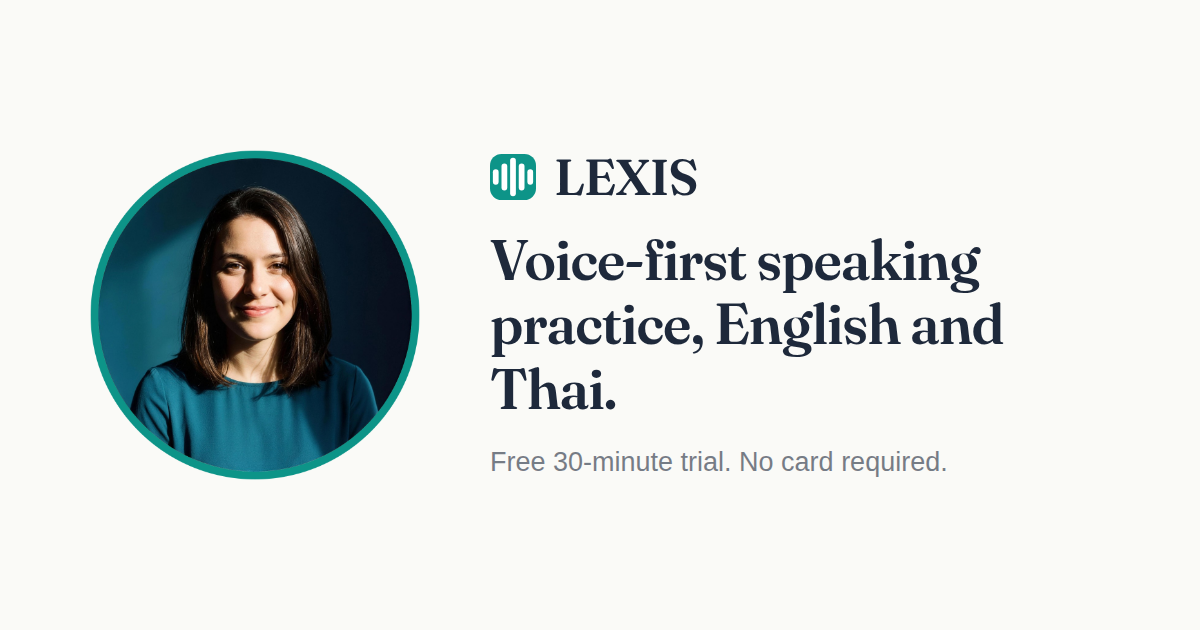
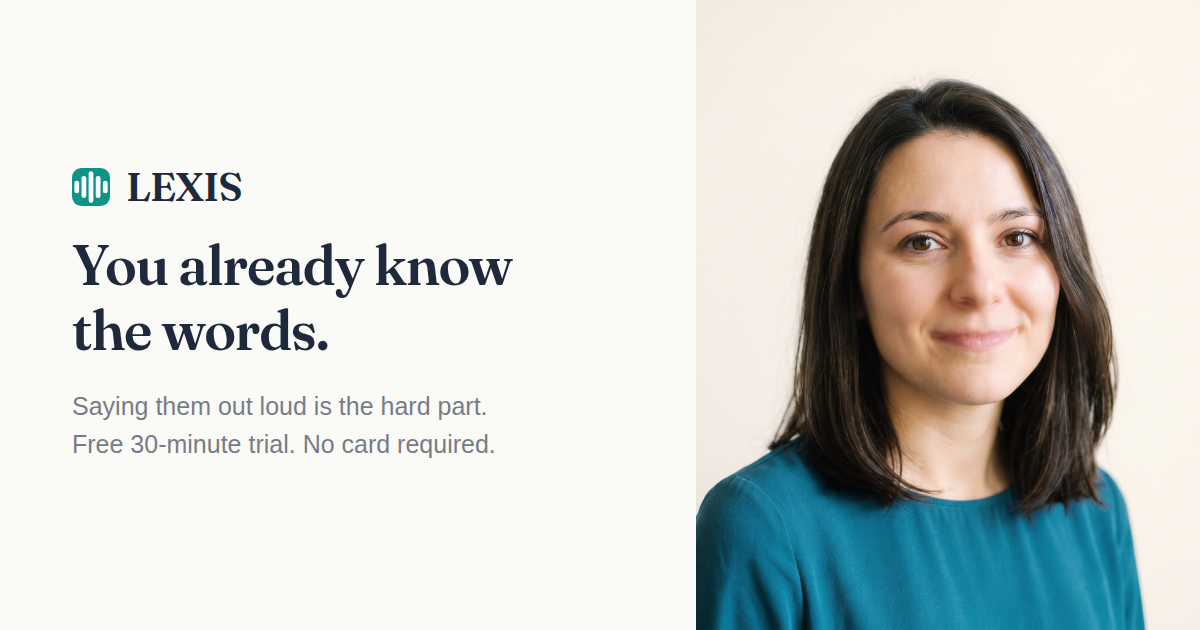
Rebuild the social kit on a real photo library of LEXIS
The composed creative was reported as terrible, and it was: one navy layout
stretched across every aspect ratio, a hole in the middle of each square
post, and the photo used in three pieces out of twelve. The root cause was
that there existed exactly ONE image of her, so every layout had to work
around the same square crop.

photography/ now holds ten frames, generated from that original portrait
with Nano Banana Pro (Gemini) using it as an identity reference: speaking,
smiling, listening, tight face crop, over the shoulder, plus 16:9 and 9:16
frames composed with the headline's negative space already in them.

Identity was verified on every frame, and that verification is the point.
Two other tools were tried first and both silently substituted a different
person: Canva ignored the uploaded asset and used an unrelated stock model,
and Higgsfield's soul_2 copied the styling (teal blouse, navy trousers, blue
backdrop) while generating four different women, one blonde. Most image
tools condition on style rather than identity. The README says to check
every new frame against the original for exactly this reason.

Templates are now three distinct square layouts rather than one:
photo-led (full bleed, scrim, headline low-left), split (photo over solid
black) and type-led (black field, small circular portrait, large quiet
headline). Covers are composed per platform against the 16:9 frame, with
YouTube kept inside its 1546x423 safe centre and LINE OA moved to warm cream
[…]

diff --git a/brand-kit/README.md b/brand-kit/README.md
@@ -24,6 +24,36 @@ Never re-export one of these by hand. The script is the source of truth
 for sizing and treatment, so a hand-made one-off drifts from the rest
 immediately.
 
+## 0a. The photo library
+
+`photography/` holds ten images of LEXIS, generated 27 Aug 2026 from the one
+original portrait using Nano Banana Pro (Gemini) with the original as an
+identity reference. Every frame was checked against the original before it
+was kept.
+
+**That check is not optional, and it is the whole reason this folder exists.**
+Two other tools were tried first and both silently replaced her with a
+different person: Canva dropped in an unrelated stock model, and Higgsfield's
+`soul_2` copied the styling (teal blouse, navy trousers, blue backdrop) while
+generating four different women, one of them blonde. Most image tools condition
+on *style*, not identity. If you generate more of her, put the new frame next
+to `frontend/public/avatar/lexis-tutor-photo.jpg` and actually look, every time.
+
+| File | Shot for |
+|---|---|
+| `01-portrait-black-smile` | Square, warm smile, black. Avatars, general use. |
+| `02-portrait-black-speaking` | Square, mid-sentence. The best single image for a voice product. |
+| `03-portrait-cream-listening` | Square, listening, warm cream. Light-background layouts. |
+| `05-vertical-black-headroom` | 3:4 with empty space above her for a headline. |
+| `07-banner-black-right` | 16:9, her on the right, two thirds empty black. Every wide cover. |
+| `09-story-black-lower` | 9:16, her low in frame, empty above. Stories and Reels. |
+| `10-closecrop-black` | Square, tight face crop. Split layouts, intimate pieces. |
+| `11-portrait-teal-overshoulder` | Square, over the shoulder, teal ground. Variety. |
+| `12`, `13` | Square alternates, speaking and smiling. |
+
+Stored as JPEG at 2048px long edge (5.4MB total, down from 66MB of PNG).
+Nothing in this kit composites larger than 2048.
+
 ## 0. Read this before you post LEXIS's face anywhere
 
 `avatars/lexis-photo-*` are crops of a **synthetic, generated portrait**
@@ -136,11 +166,33 @@ verified product fact.
 
 | File | Content |
 |---|---|
-| `post-square-1080-speak.png` | "Practice speaking English out loud, not typing." + trial terms. |
-| `post-square-1080-partner.png` | "A real conversation partner, not a course." + trial terms and price. |
-| `post-square-1080-th.png` | Thai pitch + Thai trial terms. |
-| `story-1080x1920-en.png` | Story / Reel / TikTok vertical, English, amber CTA. |
-| `story-1080x1920-th.png` | Same, Thai. |
+Rebuilt 27 Aug 2026 against the photo library. The first version was one
+layout stretched across every size, with a hole in the middle of each square
+post and the photo used in three pieces out of twelve. There are now **three
+distinct square layouts**, used deliberately:
+
+| Layout | What it is | When to use it |
+|---|---|---|
+| **A, photo-led** | Full-bleed portrait, gradient scrim, headline low-left under a short teal rule. | The default. Strongest scroll-stopper. |
+| **B, split** | Photo in the top 58%, type in solid black beneath. | When the line is short and wants room. |
+| **C, type-led** | Black field, small circular portrait top-right, large quiet headline. | When the words carry it. Good in a grid between photo-led posts. |
+
+| File | Layout | Line |
+|---|---|---|
+| `post-a-words.png` | A | "You already know the words. Saying them out loud is the hard part." |
+| `post-a-course.png` | A | "You don't need another course. You need someone to talk to." |
+| `post-b-reading.png` | B | "Reading English is not speaking English." |
+| `post-b-th.png` | B | Thai: you already know the words |
+| `post-c-before.png` | C | "Practice the conversation before you have to have it." |
+| `post-c-room.png` | C | "Thirty minutes. No class. No audience." |
+| `story-en.png` | Story | Full-bleed vertical, amber CTA. |
+| `story-th.png` | Story | Same, Thai. |
+
+**On the copy.** The earlier lines were feature statements and read as
+lifeless. These lead with the feeling of the problem rather than the
+mechanics of the product. Every one is still defensible: they describe the
+experience of using it, not a claim about results. Change them at the top of
+`generate_brand_kit_social.mjs`, never in the PNGs.
 
 To change the copy on any of these, edit the strings at the top of
 `generate_brand_kit_assets.mjs` and re-run it. Don't edit the PNGs.
